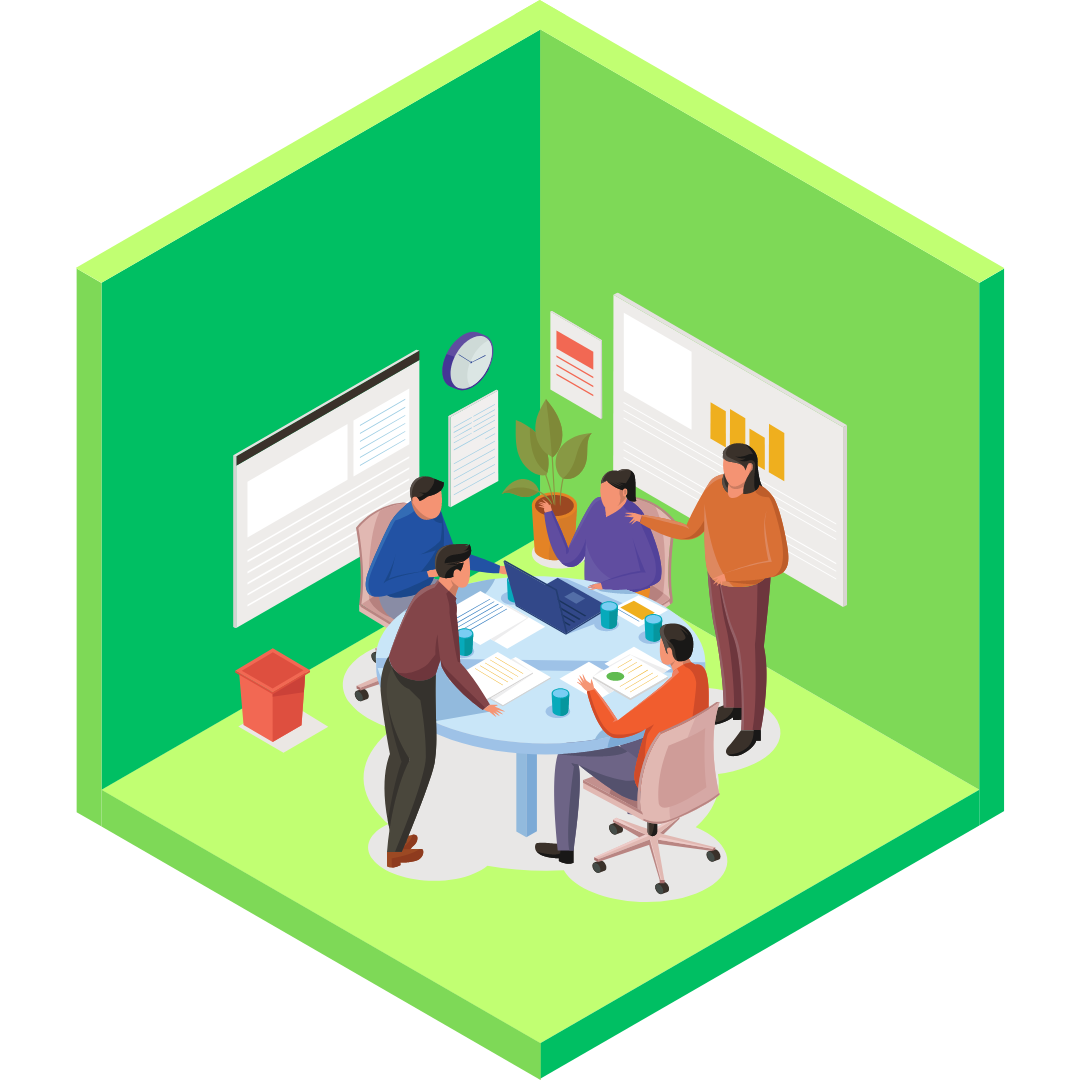
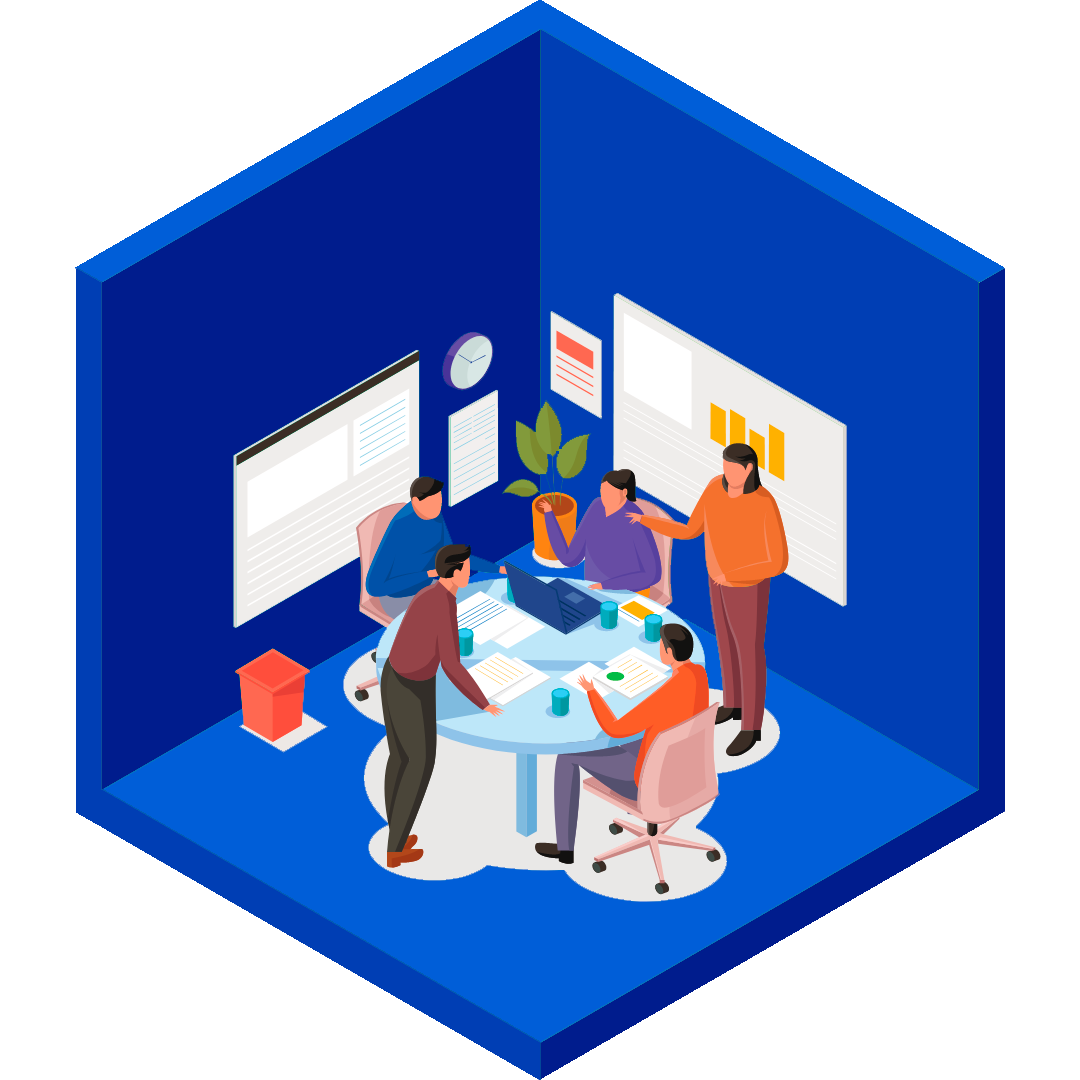
Redux / Login
Redux implementado y Login funcionando

diff --git a/frontend/src/components/loginPage/loginPage.js b/frontend/src/components/loginPage/loginPage.js
@@ -1,15 +1,51 @@
 import styles from './loginPage.module.css'
-import logo from '../../assets/logo.jpg'
+import logo from '../../assets/backgroundVector.png'
 import vector from '../../assets/backgroundVector.png'
 import {BiUserCircle, BiLock} from 'react-icons/bi'
+import {useState} from "react";
+import axios from "axios";
+import jwtDecode from "jwt-decode";
+import {useDispatch} from "react-redux";
+import {setUser} from "../../store/userSlice";
+import {useNavigate} from "react-router-dom";
 
-const iconStyle = {color: "#09be7c", fontSize: 30, marginRight: 5}
+
+const iconStyle = {color: "#002388", fontSize: 30, marginRight: 5}
 
 export default function LoginPage() {
+    const dispatch = useDispatch()
+    const navigate = useNavigate()
+    const [loginData, setLoginData] = useState({
+        email: '',
+        password: ''
+    })
+
+    const handleChange = (e) => {
+        const {name, value} = e.target
+
+        setLoginData({
+            ...loginData,
+            [name]: value
+        })
+    }
 
     const handleSubmit = async (e) => {
         e.preventDefault()
-        console.log("Login")
+        try {
+            const url = 'https://reapir-module-crm-230927095955.azurewebsites.net/api/User/Login'
+            const response = await axios.post(url, loginData)
+            const payload = jwtDecode(response.data.token)
+            const userData = {
+                token: response.data.token,
+                userID: payload['http://schemas.xmlsoap.org/ws/2005/05/identity/claims/nameidentifier'],
+                name: payload['http://schemas.xmlsoap.org/ws/2005/05/identity/claims/name'],
+                role: payload['http://schemas.microsoft.com/ws/2008/06/identity/claims/role']
+            }
+            dispatch(setUser(userData))
+            navigate('/dashboard')
+        } catch (e) {
+            console.log(e)
+        }
     }
     return (
         <div className={styles.mainContainer}>
@@ -24,15 +60,18 @@ export default function LoginPage() {
 
                         <div className={styles.labelWrapper}>
                             <BiUserCircle style={iconStyle}/>
-                            <label htmlFor={'userInput'}>Usuario:</label>
+                            <label htmlFor={'userInput'}>Correo:</label>
                         </div>
-                        <input type={"text"} id={'userInput'} placeholder={'Ingrese su usuario...'}/>
+                        <input type={"text"} id={'userInput'} name={'email'} placeholder={'Ingrese su correo...'}
+                               onChange={handleChange} value={loginData.email}/>
 
                         <div className={styles.labelWrapper}>
                             <BiLock style={iconStyle}/>
                             <label htmlFor={'passwordInput'}>Contraseña:</label>
                         </div>
-                        <input type={"password"} id={'passwordInput'} placeholder={'Ingrese su contraseña...'}/>
+                        <input type={"password"} id={'passwordInput'} name={'password'}
+                               placeholder={'Ingrese su contraseña...'} onChange={handleChange}
+                               value={loginData.password}/>
 
                         <button type={"submit"}>Iniciar Sesión</button>
                     </form>

diff --git a/frontend/src/components/sideBarComponent/sideBar.js b/frontend/src/components/sideBarComponent/sideBar.js
@@ -2,8 +2,10 @@ import styles from './sideBar.module.css'
 import {HiCalculator, HiChip, HiClipboardList, HiHome, HiInformationCircle} from "react-icons/hi";
 import {HiUserCircle} from "react-icons/hi2";
 import {Link} from "react-router-dom";
+import {useSelector} from "react-redux";
 
 export default function SideBar() {
+    const userData = useSelector((state) => state.userData)
     const handleLogOut = () => {
         console.log('Log Out...')
     }
@@ -13,8 +15,8 @@ export default function SideBar() {
             <div className={styles.userContainer}>
                 <HiUserCircle style={{fontSize: '50px'}}/>
                 <div className={styles.userInfo}>
-                    <h3>Nombre Apellido</h3>
-                    <p>Rol: Técnico</p>
+                    <h3>{userData.name}</h3>
+                    <p>Rol: {userData.role}</p>
                 </div>
             </div>
 

diff --git a/frontend/src/components/loginPage/loginPage.module.css b/frontend/src/components/loginPage/loginPage.module.css
@@ -3,7 +3,7 @@
     display: grid;
     grid-template-columns: repeat(2, 1fr);
     grid-template-rows: 1fr;
-    background: linear-gradient(90deg, rgba(193, 255, 114, 1) 0%, rgba(126, 217, 87, 1) 25%, rgba(0, 191, 99, 1) 100%);
+    background: linear-gradient(90deg, #2e5ed2 0%, #1741ad 25%, #002388 100%);
 }
 
 .infoContainer {
@@ -25,7 +25,7 @@
 
 .loginWrapper {
     padding: 10px;
-    background: #09be7c;
+    background: #002388;
     border: 1px solid white;
     border-radius: 10px;
 }
@@ -76,12 +76,12 @@
     font-weight: bold;
     padding: 15px 20px;
     margin-top: 25px;
-    background: #09be7c;
+    background: #002388;
     border: none;
     border-radius: 100px;
 }
 
 .loginForm button:hover {
-    background: #7ed957;
+    background: #2e5ed2;
     transition: ease-in 0.25s;
 }

diff --git a/frontend/src/store/userSlice.js b/frontend/src/store/userSlice.js
@@ -1,0 +1,24 @@
+import {createSlice} from '@reduxjs/toolkit';
+
+const initialState = {
+    token: '',
+    userID: '',
+    name: '',
+    role: ''
+};
+
+const userSlice = createSlice({
+    name: 'userSlice',
+    initialState,
+    reducers: {
+        setUser: (state, action) => {
+            state.token = action.payload.token;
+            state.userID = action.payload.userID;
+            state.name = action.payload.name;
+            state.role = action.payload.role;
+        },
+    },
+});
+
+export const {setUser} = userSlice.actions;
+export default userSlice.reducer;

diff --git a/frontend/src/index.js b/frontend/src/index.js
@@ -1,9 +1,13 @@
 import React from 'react';
 import ReactDOM from 'react-dom/client';
 import App from './App';
+import {Provider} from "react-redux";
+import {store} from "./store/store";
 
 const root = ReactDOM.createRoot(document.getElementById('root'));
 root.render(
-    <App/>
+    <Provider store={store}>
+        <App/>
+    </Provider>
 );
 

diff --git a/frontend/src/store/store.js b/frontend/src/store/store.js
@@ -1,0 +1,9 @@
+import {configureStore} from '@reduxjs/toolkit';
+import userReducer from './userSlice';
+
+export const store = configureStore({
+    reducer: {
+        userData: userReducer,
+    },
+    devTools: true
+});
